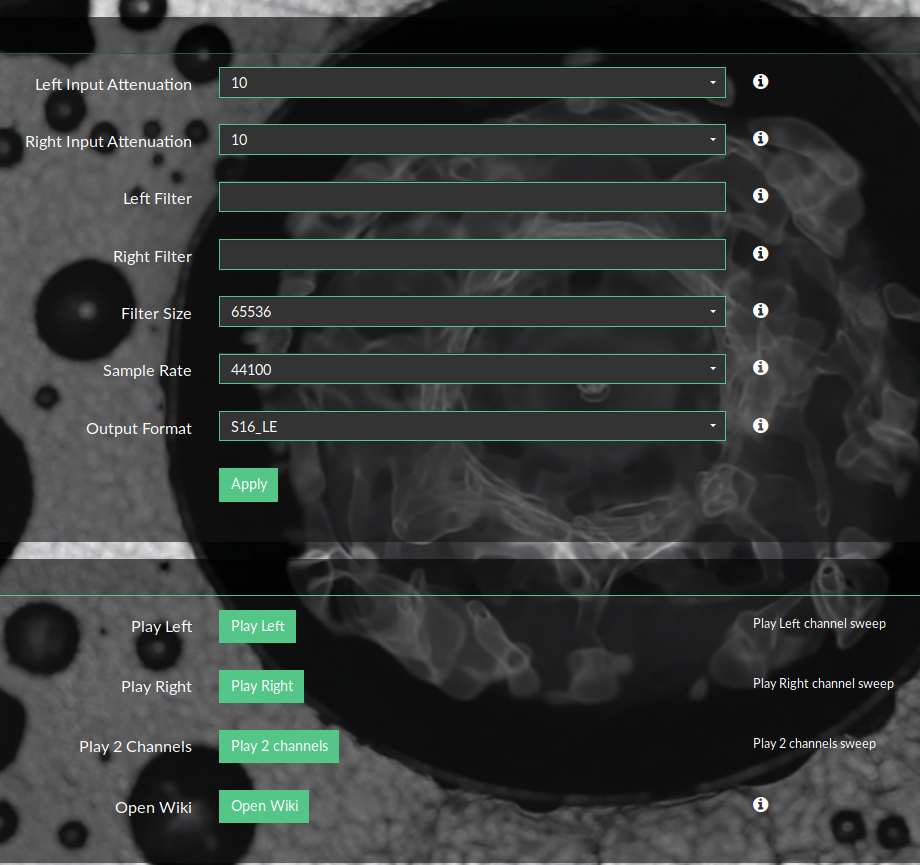
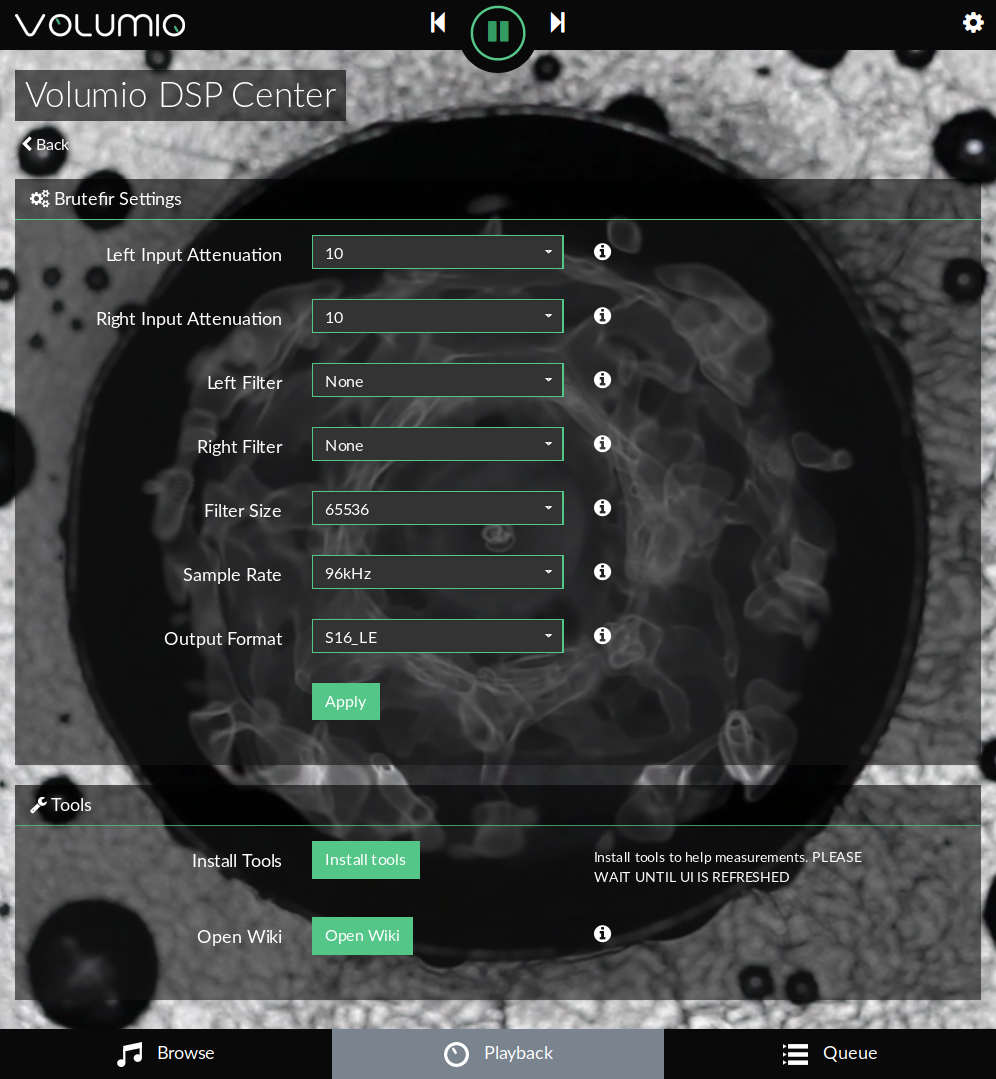
brutefir3 - new work...

diff --git a/docs/06_Plugins_User_Manuals/00_brutefir/02_Making_Measurment.md b/docs/06_Plugins_User_Manuals/00_brutefir/02_Making_Measurment.md
@@ -2,23 +2,51 @@
 
 There is 4 important steps to that :
 
-* playing sweep file (with Volumio)
+* playing sweep file or pink noise using Tools in the plugin.
 * Recording signal while playing (with REW)
 * Modifing the result (with REPHASE) and generating filters.
 * Using this filter in Volumio trough the Brutefir plugin.
 
 
-### Sweep files
+### Tools in Volumio
 
-To make it easy, the plugin can provide these files.
+To help to generate your filter, the plugin can provide some tools.
+
+__Sweep files__
+
 These wav file contain a 20Hz to 20000kHz signal plus a time reference signal.
 
-In the plugin settings, there is 3 buttons to play these files.
-Before starting, empty the queue of __Volumio__
+__Pink noise files__
 
-<img src="./img/general_plugin_settings.png">
+Provide pink noise files.
+
+Tools are not installed by default. If you need to install, press install tools in the plugin and wait the windows to be refreshed.
+
+
+<img src="./img/install_tools.png">
+
+After the page is refreshed, you'll new entries in the page of the plugin.
 
 ### Measurment
+
+We will describe a method called MMM - Moving Mic Measurment.
+
+The idea is to make a multi point measurement and use the average of these measures.
+
+Read more about moving microphone method (implemented via RTA in REW) here:
+<a href="http://www.ohl.to/audio/downloads/MMM-moving-mic-measurement.pdf"> : MMM</a>
+
+Measurment points are defined like in above pictures
+
+<img src="./img/sofa_top.png" width = 500 >
+
+<img src="./img/sofa_front.png" width = 500 >
+
+<img src="./img/sofa_iso.png" width = 500 >
+
+It avoids to have a single optimized listening point
+
+### Let's go ! (to rewrite)
 
 Now, plug your Microphone on your computer, and place it where you should be to listen music. The placement is important, and you're advised to read some howto...
 

diff --git a/docs/06_Plugins_User_Manuals/00_brutefir/01_Preparing_your_system.md b/docs/06_Plugins_User_Manuals/00_brutefir/01_Preparing_your_system.md
@@ -2,12 +2,14 @@
 
 Once the plugin is installed, enabled it wait about 20 sec.
 Don't try to make any change in Volumio playback.
-If no error :
+
+__If no error__ :
 Try to play a track, if the music is playing, go to the next step.
 
 If an error occurs go in plugin settings
 
-<img src="./img/general_plugin_settings.png" width="624">
+<img src="./img/general_plugin_settings.png">
+_plugin main interface_
 
 and try to change __output format__ . It is a DAC dependant parameter.
 

diff --git a/docs/06_Plugins_User_Manuals/00_brutefir/04_Using_filters_in_Volumio.md b/docs/06_Plugins_User_Manuals/00_brutefir/04_Using_filters_in_Volumio.md
@@ -10,4 +10,4 @@ Now it's time to test your filters. To do that :
 
 * Press apply and play what you want!
 
-__Nota__ : In the true life, making a good filter is not so staright fowrad... You'll have to redo all the procedure many time to get a good result.
+__Nota__ : In the true life, making a good filter is not so straight fowrad... You'll have to redo all the procedure many time to get a good result.
